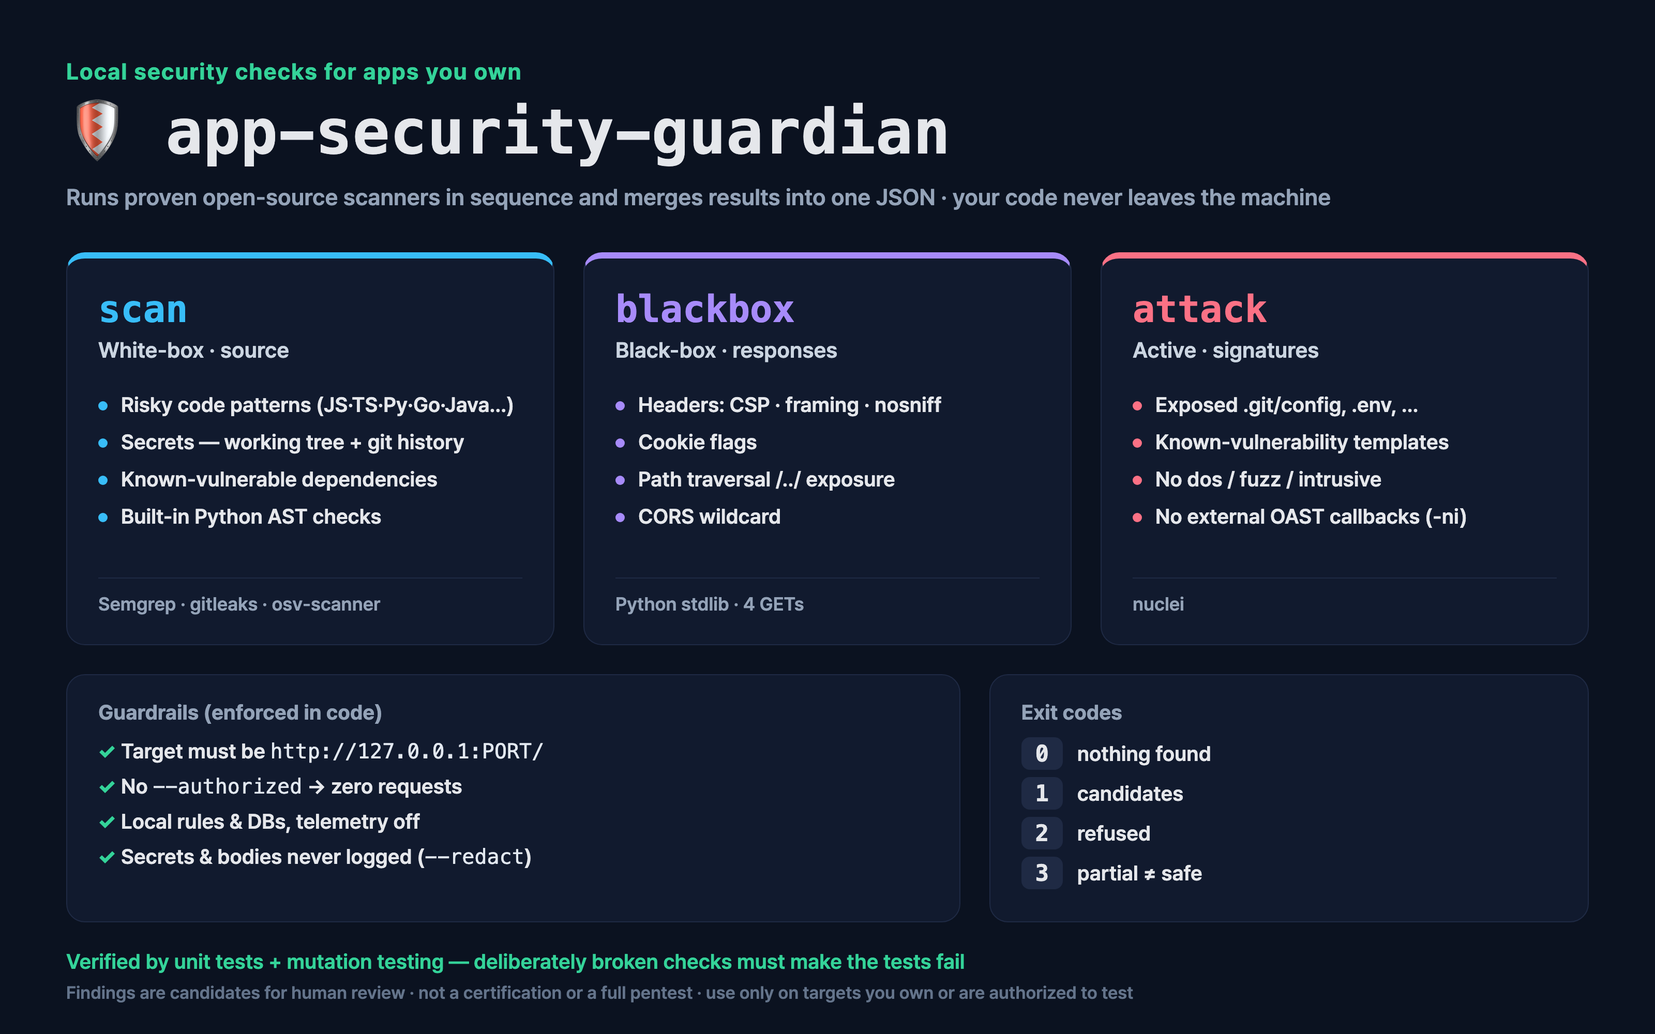
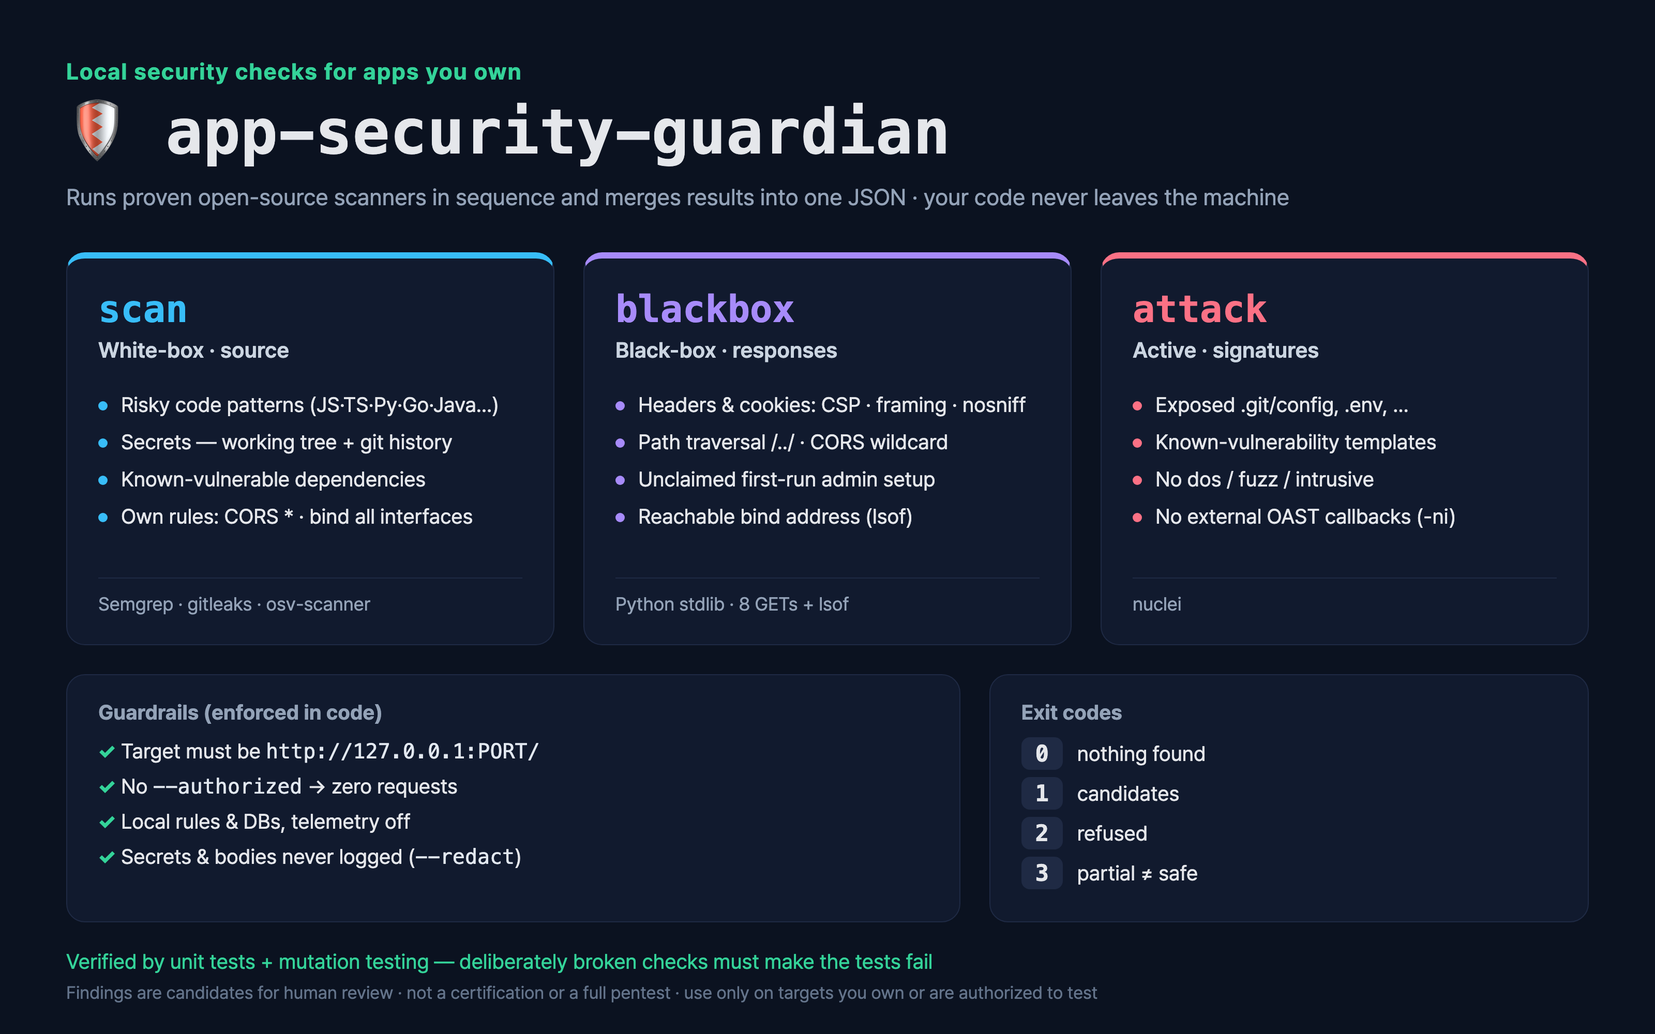
v0.5.0: unclaimed first-run admin setup probe, non-loopback bind check (lsof), own Semgrep rules (CORS *, listen on all interfaces, compose ports), test-file secrets downgraded to low; gate 35 tests, 27/27 mutants

diff --git a/fixtures/vuln-js/tests/app.test.js b/fixtures/vuln-js/tests/app.test.js
@@ -1,0 +1,3 @@
+// dummy key in a test file: guardian must keep it but downgrade to low
+const API_KEY = "Q8w2Ze7LrT5yNb3VkX9mPc4HjD6sFa1G";
+module.exports = API_KEY;

diff --git a/guardian.py b/guardian.py
@@ -9,16 +9,42 @@ No destructive exploitation (attack = nuclei signature checks only), no remote t
 osv-scanner --offline-vulnerabilities, gitleaks --redact. Source snippets and secret values are never reported.
 Exit: 0 clean (all tools ran) · 1 findings · 2 refused · 3 partial (a tool missing/failed) — 3 is never "clean".
 """
-import argparse, hashlib, http.client, json, os, shutil, subprocess, sys, tempfile
+import argparse, hashlib, http.client, json, os, re, shutil, subprocess, sys, tempfile
 
 HERE = os.path.dirname(os.path.abspath(__file__))
 sys.path.insert(0, HERE)
 import origin, runner  # noqa: E402
 
-VERSION = "0.4.0"
-RULES = [os.path.join(HERE, "rules", f"p-{p}.yml") for p in ("default", "javascript", "nodejs", "xss", "secrets", "python")]
+VERSION = "0.5.0"
+RULES = [os.path.join(HERE, "rules", f"p-{p}.yml") for p in ("default", "javascript", "nodejs", "xss", "secrets", "python")] + \
+        [os.path.join(HERE, "rules", "guardian-custom.yml")]  # ours: CORS *, listen on all interfaces, compose port on all interfaces
 EXCLUDE = ["node_modules", "upstream", ".git", "venv", ".venv", "dist", "build", "*.bak.*", "*.min.js"]
 SEV = {"ERROR": "high", "WARNING": "medium", "INFO": "low"}
+TESTFILE = re.compile(r"(^|/)(tests?|__tests__|fixtures?|testdata|spec)/|_test\.(go|py)$|(^|/)test_[^/]*\.py$|\.(test|spec)\.[cm]?[jt]sx?$")
+SETUP_PATHS = ("/api/auth/status", "/api/setup/status", "/api/setup", "/api/status")
+# ponytail: key-name heuristic for "admin not yet set"; add an app-specific path/key when a new framework is missed
+_NOT_SET = ("initialized", "setup_complete", "setupcomplete", "has_admin", "hasadmin", "password_set", "passwordset", "configured")
+_NEEDS = ("needs_setup", "needssetup", "setup_required", "setuprequired", "first_run", "firstrun")
+
+
+def _setup_open(body):
+    """Return the key that says the first-run admin is unclaimed, else None. Body values are never reported."""
+    try:
+        d = json.loads(body)
+    except ValueError:
+        return None
+    if not isinstance(d, dict):
+        return None
+    for k, v in d.items():
+        kl = k.lower()
+        if (kl in _NOT_SET and v is False) or (kl in _NEEDS and v is True):
+            return k
+    return None
+
+
+def _exposed(addrs):
+    """lsof 'host:port' listen addresses -> True if any is not loopback (*, 0.0.0.0, [::], LAN/VPN IP)."""
+    return any(not (h.startswith("127.") or h in ("[::1]", "localhost")) for h in (a.rsplit(":", 1)[0] for a in addrs))
 
 
 def _run(cmd, timeout=600):
@@ -76,10 +102,12 @@ def _gitleaks(root):
             with open(rep) as fh:
                 found = json.load(fh)
             for r in found:  # Match/Secret deliberately dropped
-                fs.append({"path": os.path.relpath(r.get("File", ""), root) if mode == "dir" else r.get("File", ""),
-                           "line": r.get("StartLine"), "rule": r.get("RuleID"), "severity": "high",
+                path = os.path.relpath(r.get("File", ""), root) if mode == "dir" else r.get("File", "")
+                test = bool(TESTFILE.search(path))  # dummy keys in tests: kept but downgraded, never dropped
+                fs.append({"path": path, "line": r.get("StartLine"), "rule": r.get("RuleID"), "severity": "low" if test else "high",
                            "where": "git history " + r.get("Commit", "")[:7] if mode == "git" else "working tree",
-                           "message": "possible secret (value redacted) — rotate if real"})
+                           "message": ("in a test/fixture file — likely a dummy, confirm" if test else
+                                       "possible secret (value redacted) — rotate if real")})
         return {"status": "ok", "modes": [m for m, _ in targets], "findings": fs}
 
 
@@ -159,12 +187,33 @@ def blackbox(url, authorized):
                       "detail": f"Access-Control-Allow-Origin: {acao or '(none)'}" + (" — any site can read responses" if bad else "")})
     except (OSError, http.client.HTTPException) as e:
         extra.append({"id": "extra-probes", "status": "error", "detail": type(e).__name__})
-    sev = {"path-traversal": "high", "cors": "medium"}
+    try:
+        # first-run setup still open: a status endpoint says "no admin yet" -> whoever reaches the port first claims admin
+        hits = []
+        for p in SETUP_PATHS:
+            st, _, body = _get(port, p)
+            k = _setup_open(body) if st == 200 else None
+            if k:
+                hits.append(f"{p} ({k})")
+        extra.append({"id": "open-setup", "status": "finding" if hits else "pass",
+                      "detail": ("first-run admin setup still open: " + ", ".join(hits)) if hits else f"{len(SETUP_PATHS)} setup-status paths: none report an unclaimed admin"})
+    except (OSError, http.client.HTTPException) as e:
+        extra.append({"id": "open-setup", "status": "error", "detail": type(e).__name__})
+    # listen address: local process table only (lsof), no network traffic
+    rc, out, _ = _run(["lsof", "-nP", f"-iTCP:{port}", "-sTCP:LISTEN", "-F", "n"], timeout=15) if shutil.which("lsof") else (None, "", "")
+    addrs = sorted({l[1:] for l in out.splitlines() if l.startswith("n")})
+    if not addrs:
+        extra.append({"id": "bind", "status": "error", "detail": "listen address not determined (lsof missing or process not visible)"})
+    else:
+        exposed = _exposed(addrs)
+        extra.append({"id": "bind", "status": "finding" if exposed else "pass",
+                      "detail": f"listening on {', '.join(addrs)}" + (" — reachable from other machines (bind 127.0.0.1 unless intended)" if exposed else "")})
+    sev = {"path-traversal": "high", "cors": "medium", "open-setup": "high", "bind": "medium"}
     new = [{"id": x["id"], "severity": sev.get(x["id"]), "detail": x["detail"]} for x in extra if x["status"] == "finding"]
     rep["checks"] += extra
     rep["findings"] += new
     rep["findings_count"] = len(rep["findings"])
-    rep["limits"]["requests"] = 4
+    rep["limits"]["requests"] = 4 + len(SETUP_PATHS)
     if any(x["status"] == "error" for x in extra):
         return 3, {**rep, "ok": False, "verdict": "PARTIAL — extra probes failed"}
     return (1 if rep["findings"] else 0), rep

diff --git a/test_guardian.py b/test_guardian.py
@@ -15,7 +15,7 @@ def serve(handler):
 class Vuln(http.server.BaseHTTPRequestHandler):
     def log_message(self, *a): pass
     def do_GET(self):
-        files = {"/": b"<html>ok</html>", "/../package.json": b'{"name":"secret-pkg"}',
+        files = {"/": b"<html>ok</html>", "/../package.json": b'{"name":"secret-pkg"}', "/api/auth/status": b'{"initialized": false}',
                  "/.git/config": b'[core]\n\trepositoryformatversion = 0\n\tfilemode = true\n\tbare = false\n\tlogallrefupdates = true\n'}
         body = files.get(self.path, b"nf")
         self.send_response(200 if self.path in files else 404)
@@ -27,6 +27,8 @@ class Vuln(http.server.BaseHTTPRequestHandler):
 class Safe(http.server.BaseHTTPRequestHandler):
     def log_message(self, *a): pass
     def do_GET(self):
+        if self.path == "/api/auth/status":  # admin already claimed -> not a finding
+            self.send_response(200); self.end_headers(); self.wfile.write(b'{"initialized": true}'); return
         ok = self.path == "/"
         self.send_response(200 if ok else 404)
         for k, v in (("Content-Security-Policy", "default-src 'self'; frame-ancestors 'none'"),
@@ -65,6 +67,19 @@ class ScanTests(unittest.TestCase):
         self.assertEqual(high, [])
         self.assertEqual(self.s["by_tool"]["gitleaks"]["findings"], 0)
 
+    def test_custom_rules_catch_cors_and_bind_all(self):
+        hits = {(f["rule"], f["path"]) for f in self.v["tools"][0]["findings"]}
+        for want in (("cors-wildcard-origin", "server.go"), ("listen-all-interfaces", "server.go"),
+                     ("node-listen-all-interfaces", "app.js"), ("compose-port-all-interfaces", "docker-compose.yml")):
+            self.assertIn(want, hits)
+        safe = {f["rule"] for f in self.s["tools"][0]["findings"]}
+        self.assertFalse(safe & {"cors-wildcard-origin", "listen-all-interfaces", "node-listen-all-interfaces", "compose-port-all-interfaces"}, safe)
+
+    def test_test_file_secret_kept_but_downgraded(self):
+        gl = {f["path"]: f["severity"] for f in self.v["tools"][1]["findings"]}
+        self.assertEqual(gl.get("tests/app.test.js"), "low", gl)
+        self.assertEqual(gl.get("app.js"), "high", gl)
+
     def test_missing_rules_is_partial_not_clean(self):
         old = guardian.RULES
         guardian.RULES = ["/nonexistent.yml"]
@@ -86,7 +101,8 @@ class BlackboxTests(unittest.TestCase):
             s.shutdown()
         ids = {f["id"] for f in rep["findings"]}
         self.assertEqual(code, 1)
-        self.assertTrue({"path-traversal", "cors"} <= ids, ids)
+        self.assertTrue({"path-traversal", "cors", "open-setup"} <= ids, ids)
+        self.assertNotIn("bind", ids)  # test server binds 127.0.0.1
 
     def test_safe_server_passes_extra_probes(self):
         s = serve(Safe)
@@ -95,7 +111,7 @@ class BlackboxTests(unittest.TestCase):
         finally:
             s.shutdown()
         st = {c["id"]: c["status"] for c in rep["checks"]}
-        self.assertEqual((st["path-traversal"], st["cors"]), ("pass", "pass"))
+        self.assertEqual((st["path-traversal"], st["cors"], st["open-setup"], st["bind"]), ("pass",) * 4)
         self.assertEqual(code, 0, rep["findings"])
 
     def test_attack_finds_exposed_git_config_on_vuln_only(self):
@@ -114,6 +130,15 @@ class BlackboxTests(unittest.TestCase):
     def test_attack_refuses_remote_and_unauthorized(self):
         self.assertEqual(guardian.attack("https://example.com/", True)[0], 2)
         self.assertEqual(guardian.attack("http://127.0.0.1:1/", False)[0], 2)
+
+    def test_setup_and_bind_helpers(self):
+        self.assertEqual(guardian._setup_open(b'{"initialized": false}'), "initialized")
+        self.assertEqual(guardian._setup_open(b'{"needsSetup": true}'), "needsSetup")
+        self.assertIsNone(guardian._setup_open(b'{"initialized": true}'))
+        self.assertIsNone(guardian._setup_open(b'not json'))
+        self.assertTrue(guardian._exposed(["*:8787"]))
+        self.assertTrue(guardian._exposed(["127.0.0.1:8787", "100.69.33.124:8787"]))
+        self.assertFalse(guardian._exposed(["127.0.0.1:8787", "[::1]:8787"]))
 
     def test_remote_refused(self):
         self.assertEqual(guardian.blackbox("https://example.com/", True)[0], 2)

diff --git a/docs/make_infographic.py b/docs/make_infographic.py
@@ -7,15 +7,15 @@ CHROME = "/Applications/Google Chrome.app/Contents/MacOS/Google Chrome"
 
 T = {
  "ko": dict(kicker="내 앱을 지키는 로컬 보안 점검", title="app-security-guardian", sub="검증된 오픈소스 도구를 순서대로 돌리고, 결과를 JSON 하나로 묶습니다 · 코드는 밖으로 나가지 않습니다",
-   modes=[("scan", "화이트박스 · 소스 코드", ["위험 코드 패턴 (JS·TS·Python·Go·Java…)", "비밀키 — 작업폴더 + git 기록", "알려진 취약 의존성 (npm·pip…)", "Python AST 내장 검사"], "Semgrep · gitleaks · osv-scanner"),
-          ("blackbox", "블랙박스 · 응답 관찰", ["보안 헤더: CSP · 프레이밍 · nosniff", "쿠키 플래그", "경로 탈출 /../ 노출", "CORS 와일드카드"], "Python 표준 라이브러리 · GET 4회"),
+   modes=[("scan", "화이트박스 · 소스 코드", ["위험 코드 패턴 (JS·TS·Python·Go·Java…)", "비밀키 — 작업폴더 + git 기록", "알려진 취약 의존성 (npm·pip…)", "자체 규칙: CORS * · 전체 인터페이스 바인딩"], "Semgrep · gitleaks · osv-scanner"),
+          ("blackbox", "블랙박스 · 응답 관찰", ["헤더 · 쿠키: CSP · 프레이밍 · nosniff", "경로 탈출 /../ · CORS 와일드카드", "첫 관리자 설정 무인증 노출", "외부 접속 가능 바인딩 (lsof)"], "Python 표준 라이브러리 · GET 8회 + lsof"),
           ("attack", "능동 점검 · 시그니처", ["노출된 .git/config · .env 등", "알려진 취약점 템플릿", "dos · fuzz · intrusive 제외", "외부 OAST 콜백 끔 (-ni)"], "nuclei")],
    rails_t="안전장치 (코드로 강제)", rails=["대상은 <code>http://127.0.0.1:PORT/</code> 만", "<code>--authorized</code> 없으면 요청 0건", "규칙·DB 로컬 사본, 통계 전송 끔", "비밀값·응답 본문 미기록 (<code>--redact</code>)"],
    exit_t="종료 코드", exits=[("0", "발견 없음"), ("1", "후보 발견"), ("2", "거부"), ("3", "부분 실행 ≠ 안전")],
    gate="검증: 단위 테스트 + 뮤테이션 검사 — 검사 로직을 일부러 망가뜨리면 테스트가 실패해야 통과", foot="발견 항목은 사람이 확인할 후보입니다 · 보안 인증이나 완전한 침투 테스트가 아닙니다 · 내 소유 또는 허가받은 대상에만"),
  "en": dict(kicker="Local security checks for apps you own", title="app-security-guardian", sub="Runs proven open-source scanners in sequence and merges results into one JSON · your code never leaves the machine",
-   modes=[("scan", "White-box · source", ["Risky code patterns (JS·TS·Py·Go·Java…)", "Secrets — working tree + git history", "Known-vulnerable dependencies", "Built-in Python AST checks"], "Semgrep · gitleaks · osv-scanner"),
-          ("blackbox", "Black-box · responses", ["Headers: CSP · framing · nosniff", "Cookie flags", "Path traversal /../ exposure", "CORS wildcard"], "Python stdlib · 4 GETs"),
+   modes=[("scan", "White-box · source", ["Risky code patterns (JS·TS·Py·Go·Java…)", "Secrets — working tree + git history", "Known-vulnerable dependencies", "Own rules: CORS * · bind all interfaces"], "Semgrep · gitleaks · osv-scanner"),
+          ("blackbox", "Black-box · responses", ["Headers & cookies: CSP · framing · nosniff", "Path traversal /../ · CORS wildcard", "Unclaimed first-run admin setup", "Reachable bind address (lsof)"], "Python stdlib · 8 GETs + lsof"),
           ("attack", "Active · signatures", ["Exposed .git/config, .env, …", "Known-vulnerability templates", "No dos / fuzz / intrusive", "No external OAST callbacks (-ni)"], "nuclei")],
    rails_t="Guardrails (enforced in code)", rails=["Target must be <code>http://127.0.0.1:PORT/</code>", "No <code>--authorized</code> → zero requests", "Local rules & DBs, telemetry off", "Secrets & bodies never logged (<code>--redact</code>)"],
    exit_t="Exit codes", exits=[("0", "nothing found"), ("1", "candidates"), ("2", "refused"), ("3", "partial ≠ safe")],

diff --git a/reports/mutants_guardian.py b/reports/mutants_guardian.py
@@ -4,15 +4,19 @@ SRC = os.path.dirname(os.path.dirname(os.path.abspath(__file__)))
 MUTANTS = [
     ("traversal never flagged", 'leak = st == 200 and', 'leak = False and'),
     ("cors never flagged", 'bad = acao in ("*", "https://guardian-cors-probe.invalid")', 'bad = False'),
-    ("gitleaks findings dropped", 'fs.append({"path": os.path.relpath(r.get("File", ""), root)', 'None and fs.append({"path": os.path.relpath(r.get("File", ""), root)'),
+    ("gitleaks findings dropped", 'fs.append({"path": path,', 'None and fs.append({"path": path,'),
     ("semgrep error reported clean", 'return {"status": "error", "reason": "rules missing', 'return {"status": "ok", "reason": "rules missing'),
+    ("open-setup never flagged", 'if k:\n                hits.append', 'if False:\n                hits.append'),
+    ("bind exposure never flagged", 'return any(not (h.startswith("127.")', 'return False and any(not (h.startswith("127.")'),
+    ("custom rules not loaded", '+ \\\n        [os.path.join(HERE, "rules", "guardian-custom.yml")]', ''),
+    ("test-file secrets not downgraded", 'test = bool(TESTFILE.search(path))', 'test = False'),
     # (no mutant removes the loopback gate: that mutant would send real traffic to a remote host)
     ("attack --authorized gate removed", 'return 2, {**base, "error": "refused: --authorized not given (no request sent)"}', 'pass'),
     ("attack findings dropped", "fs.append({\"rule\": r.get(\"template-id\")", "None and fs.append({\"rule\": r.get(\"template-id\")"),
     ("secret value leaked (redact off + Secret echoed)", '"--redact", ', ''),
 ]
 EXTRA = {"secret value leaked (redact off + Secret echoed)":
-         ('"message": "possible secret (value redacted) — rotate if real"', '"message": r.get("Secret")')}
+         ('"message": ("in a test/fixture file', '"message": r.get("Secret") or ("in a test/fixture file')}
 killed = 0
 for name, a, b in MUTANTS:
     with tempfile.TemporaryDirectory(dir=os.environ.get("TMPDIR")) as t:

diff --git a/fixtures/vuln-js/server.go b/fixtures/vuln-js/server.go
@@ -1,0 +1,17 @@
+// INTENTIONALLY VULNERABLE TEST FIXTURE - never deploy
+package main
+
+import (
+	"flag"
+	"net/http"
+)
+
+func main() {
+	addr := flag.String("addr", ":8787", "listen address")
+	flag.Parse()
+	http.HandleFunc("/", func(w http.ResponseWriter, r *http.Request) {
+		w.Header().Set("Access-Control-Allow-Origin", "*")
+	})
+	http.ListenAndServe(":8080", nil)
+	_ = addr
+}

diff --git a/fixtures/safe-js/server.go b/fixtures/safe-js/server.go
@@ -1,0 +1,15 @@
+package main
+
+import (
+	"flag"
+	"net/http"
+)
+
+func main() {
+	addr := flag.String("addr", "127.0.0.1:8787", "listen address")
+	flag.Parse()
+	http.HandleFunc("/", func(w http.ResponseWriter, r *http.Request) {
+		w.Header().Set("Access-Control-Allow-Origin", "https://app.example.com")
+	})
+	http.ListenAndServe(*addr, nil)
+}

diff --git a/README.ko.md b/README.ko.md
@@ -15,8 +15,8 @@
 
 | 모드 | 점검 내용 | 엔진 |
 |---|---|---|
-| `scan` (화이트박스) | 기본 규칙팩 기준 20개+ 언어의 위험 코드 패턴(JS/TS·Python·Java·Go·Ruby·PHP·Terraform…), 작업폴더 **및 git 기록**의 비밀키, 알려진 취약 의존성, 내장 Python AST 검사 | Semgrep, gitleaks, osv-scanner |
-| `blackbox` | 보안 헤더(CSP·프레이밍·nosniff), 쿠키 플래그, 경로 탈출(`/../`), CORS 와일드카드 | Python 표준 라이브러리 (GET 4회) |
+| `scan` (화이트박스) | 기본 규칙팩 기준 20개+ 언어의 위험 코드 패턴(JS/TS·Python·Java·Go·Ruby·PHP·Terraform…), 작업폴더 **및 git 기록**의 비밀키, 알려진 취약 의존성, 내장 Python AST 검사, 자체 규칙(CORS `*` / 모든 인터페이스로 여는 서버 / 모든 인터페이스로 공개한 Docker 포트), 테스트 파일에서 나온 비밀키는 지우지 않고 low로 낮춤 | Semgrep, gitleaks, osv-scanner |
+| `blackbox` | 보안 헤더(CSP·프레이밍·nosniff), 쿠키 플래그, 경로 탈출(`/../`), CORS 와일드카드, **첫 관리자 설정 무인증 노출**(상태 API가 "관리자 없음"이라 답하면 먼저 접속한 사람이 관리자가 됨 · GET만 사용), **다른 기기에서 접속 가능한 바인딩**(`lsof`로 확인, 네트워크 요청 없음) | Python 표준 라이브러리 (GET 8회) + lsof |
 | `attack` | 알려진 시그니처 능동 점검: 노출된 `.git/config`·`.env`, 알려진 취약점 템플릿 | nuclei (OAST 끔, dos·fuzz·intrusive 제외) |
 
 ## 안전장치 (문서가 아니라 코드로 강제)
@@ -75,7 +75,7 @@ python3 reports/run_tests.py
 
 - **단위 테스트**: `fixtures/vuln-js`(일부러 취약하게 만든 샘플, 안의 키는 가짜)는 모든 도구가 잡아야 하고, `fixtures/safe-js`는 high 0건이어야 합니다. blackbox·attack 테스트는 127.0.0.1의 일회용 서버로 돌립니다.
 - **뮤테이션 검사**: 검사 로직을 일부러 망가뜨린 사본(경로 탈출 탐지 제거, Semgrep 오류를 깨끗함으로 보고, `--redact` 끄기 등)에서 테스트가 **실패해야** 통과입니다. 망가진 코드에서도 통과하는 테스트는 아무것도 증명하지 못하니까요.
-- 현재 게이트: 테스트 32개 통과, 뮤턴트 23/23 검출.
+- 현재 게이트: 테스트 35개 통과, 뮤턴트 27/27 검출.
 
 ## 에이전트가 적용하는 보강 (사용자 승인 후)
 

diff --git a/README.md b/README.md
@@ -15,8 +15,8 @@ Small teams and solo builders ship web apps without a security review. Commercia
 
 | Mode | What it checks | Engine |
 |---|---|---|
-| `scan` (white-box) | Risky code patterns in 20+ languages with the default rule packs (JS/TS, Python, Java, Go, Ruby, PHP, Terraform…), secrets in the working tree **and git history**, known-vulnerable dependencies, built-in Python AST checks | Semgrep, gitleaks, osv-scanner |
-| `blackbox` | Security headers (CSP, framing, nosniff), cookie flags, path traversal (`/../`), CORS wildcard | Python stdlib (4 GETs) |
+| `scan` (white-box) | Risky code patterns in 20+ languages with the default rule packs (JS/TS, Python, Java, Go, Ruby, PHP, Terraform…), secrets in the working tree **and git history**, known-vulnerable dependencies, built-in Python AST checks, own rules for CORS `*` / servers listening on all interfaces / Docker ports published on all interfaces (secrets found in test files are kept but downgraded to low) | Semgrep, gitleaks, osv-scanner |
+| `blackbox` | Security headers (CSP, framing, nosniff), cookie flags, path traversal (`/../`), CORS wildcard, **unclaimed first-run admin setup** (status endpoint says no admin yet — anyone who reaches the port first becomes admin; GET only), **listen address reachable from other machines** (`lsof`, no network traffic) | Python stdlib (8 GETs) + lsof |
 | `attack` | Active known-signature probes: exposed `.git/config`, `.env`, known-vulnerability templates | nuclei (no OAST, no dos/fuzz/intrusive) |
 
 ## Guardrails (enforced in code, not just documented)
@@ -75,7 +75,7 @@ python3 reports/run_tests.py
 
 - **Unit tests** against synthetic fixtures: `fixtures/vuln-js` (intentionally vulnerable; the key in it is fake) must be flagged by every tool, and `fixtures/safe-js` must produce zero high-severity findings. Blackbox/attack tests run against throwaway servers on 127.0.0.1.
 - **Mutation testing**: the gate deliberately breaks the checks (e.g. drops traversal detection, reports a crashed Semgrep as clean, turns off `--redact`) and requires the tests to **fail** each time. A test suite that passes on broken code proves nothing.
-- Current gate: 32 tests pass, 23/23 mutants killed.
+- Current gate: 35 tests pass, 27/27 mutants killed.
 
 ## Hardening the agent applies (with your go-ahead)
 

diff --git a/SKILL.md b/SKILL.md
@@ -38,7 +38,7 @@ Python 3.9+ stdlib only. After setup, scans run offline (Semgrep `--metrics=off`
    ```bash
    python3 guardian.py blackbox http://127.0.0.1:3000/ --authorized
    ```
-   Checks CSP / framing / nosniff, cookie flags, `/../` traversal, CORS wildcard. Uses 4 GETs.
+   Checks CSP / framing / nosniff, cookie flags, `/../` traversal, CORS wildcard, an unclaimed first-run admin setup (GET only, never POSTs), and whether the port listens on a non-loopback address (`lsof`, no traffic). Uses 8 GETs.
 
 3. **Active signature check** (optional, takes minutes):
    ```bash
